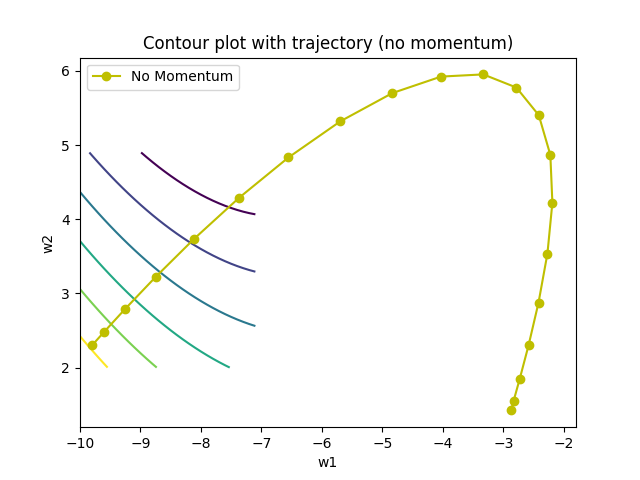
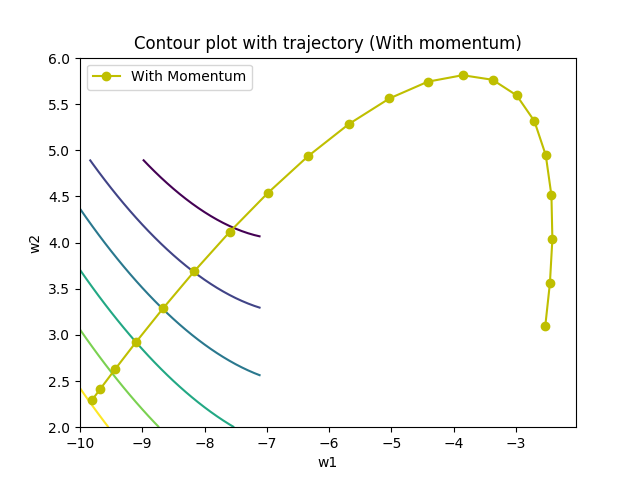
p6c

diff --git a/plot.py b/plot.py
@@ -84,6 +84,40 @@ def plot_trajectories(cost, w1, w2, weights_progress, part):
     plt.legend(loc="best")
     plt.savefig("figures/part6"+part+".png")
 
+def plot_trajectories_M(cost, w1, w2, weights_progress, part):
+    matplotlib.rcParams['xtick.direction'] = 'out'
+    matplotlib.rcParams['ytick.direction'] = 'out'
+
+    W1, W2 = np.meshgrid(w1, w2)
+
+    plt.figure()
+    CS = plt.contour(W1, W2, cost)
+
+    plt.plot([a for a, b in weights_progress], [b for a, b in weights_progress], 'yo-', label="With Momentum")
+
+    plt.xlabel("w1")
+    plt.ylabel("w2")
+    plt.title('Contour plot with trajectory (With momentum)')
+    plt.legend(loc="best")
+    plt.savefig("figures/part6"+part+".png")
+
+# def plot_both_trajectories(cost, w1, w2, weights_progress, weights_progress_M, part):
+#     matplotlib.rcParams['xtick.direction'] = 'out'
+#     matplotlib.rcParams['ytick.direction'] = 'out'
+#
+#     W1, W2 = np.meshgrid(w1, w2)
+#
+#     plt.figure()
+#     CS = plt.contour(W1, W2, cost)
+#
+#     plt.plot([a for a, b in weights_progress], [b for a, b in weights_progress], 'yo-', label="No Momentum")
+#     plt.plot([a for a, b in weights_progress_M], [b for a, b in weights_progress], 'yo-', label="With Momentum")
+#     plt.xlabel("w1")
+#     plt.ylabel("w2")
+#     plt.title('Contour plot with trajectories comparing gradient descent with and without momentum')
+#     plt.legend(loc="best")
+#     plt.savefig("figures/part6"+part+".png")
+
 # def plot_trajectories(cost, w1, w2):
 #
 #     gd_traj = [(init_w1, init_w2), (step1_w1, step1_w2), ...]

diff --git a/digits.py b/digits.py
@@ -340,7 +340,7 @@ def part6c():
     init_W[w2_coords[0], w2_coords[1]] = 2.3
     init_b = np.load("bias_part5.npy")
 
-    alpha = 0.015
+    alpha = 0.01
     gamma = 0.9
     max_iter = 20
 
@@ -354,8 +354,13 @@ def part6c():
     w2_range = np.arange(2, 5, 0.1)
 
     cost = cost_for_contour(train_set, weights, bias, train_label, w1_range, w2_range, coords)
-    plot_trajectories(cost, w1_range, w2_range, weights_progress,"c")
+    plot_trajectories_M(cost, w1_range, w2_range, weights_progress,"c")
 
+def part6d():
+    #plot both trajectories
+
+
+    return
 
 ################################################################################
 # Function calls
